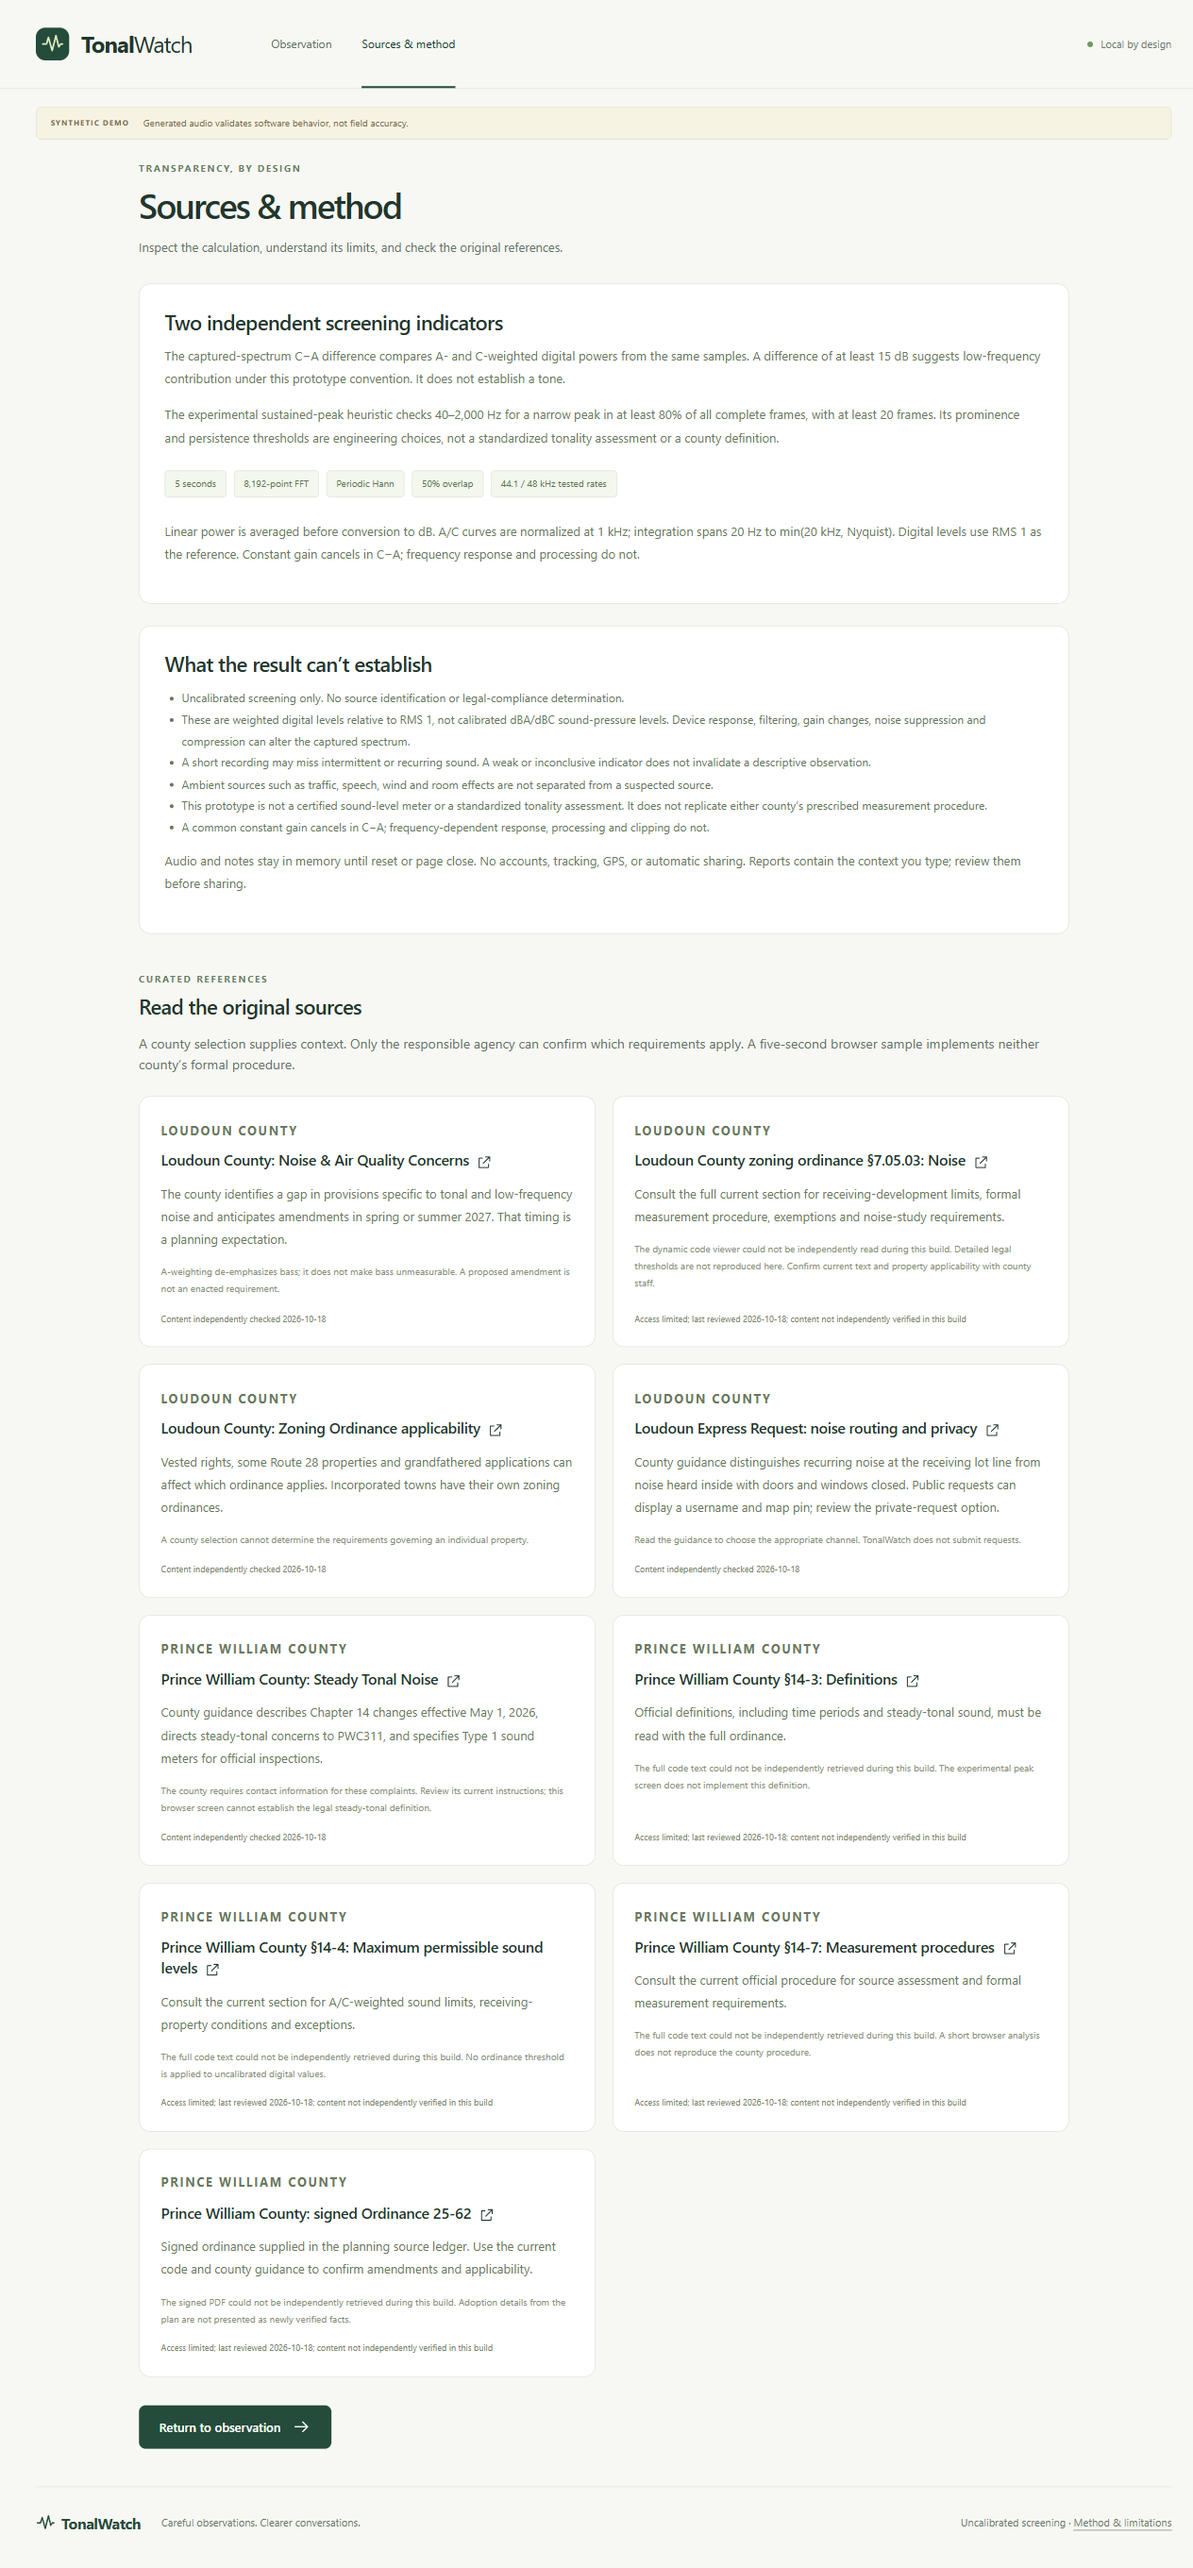
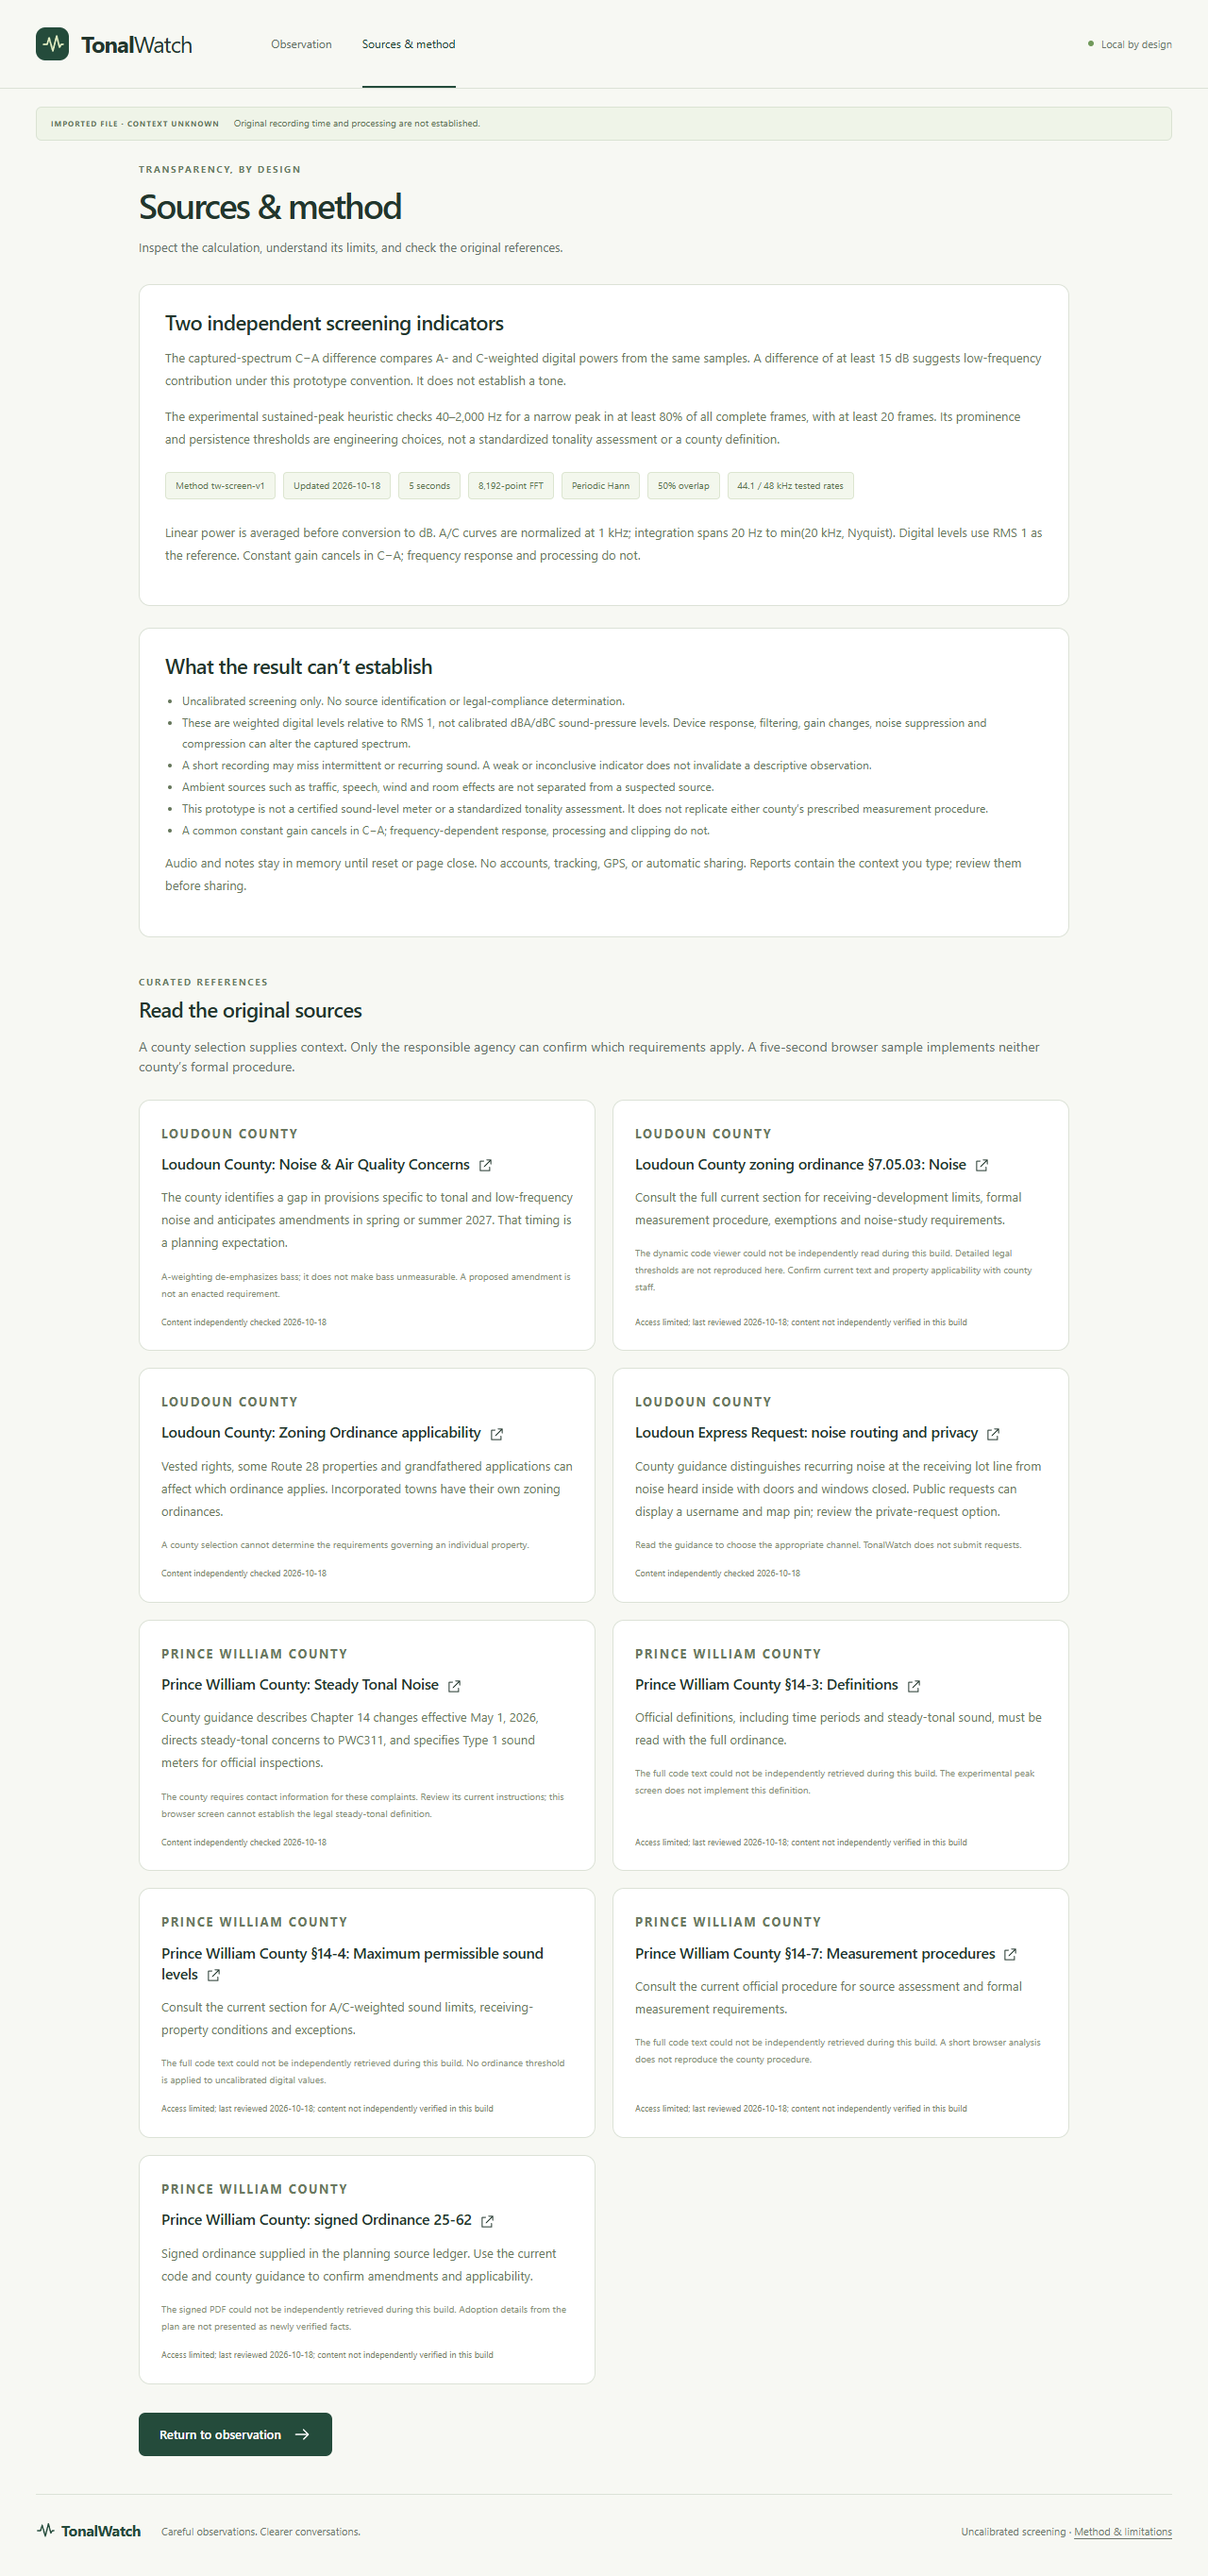
Document the public deployment and verified audio import workflow

diff --git a/docs/DEPLOYMENT.md b/docs/DEPLOYMENT.md
@@ -1,0 +1,41 @@
+# TonalWatch deployment verification
+
+Verified October 18, 2026, in Chrome 155 on Windows.
+
+- Public production URL: [tonalwatch.vercel.app](https://tonalwatch.vercel.app).
+- Deployed application source: commit `aca4b19` on `main`. Later documentation-only commits do not change the deployed application.
+- Immutable deployment: `dpl_Bnzna8LYCxCbvuNwtoYXHuWBjmmX`.
+- Project: `tonalwatch`, team `antigro09s-projects`.
+- Vercel CLI 64.5.0 reported **Ready**, production target, Node.js 24.x, Vite preset, `npm ci`, `npm run build`, output `dist`.
+- An unauthenticated request to the public production URL returned HTTP **200** and the app HTML. Browser checks used that URL without its protected preview-domain cookie. No deployment-protection setting was changed.
+
+The initial immutable/staging domain required Vercel authentication. The normal production deployment assigned `tonalwatch.vercel.app`, which is publicly accessible. Deployment protection can still apply to immutable or preview domains; use the production URL when sharing the app.
+
+## Public HTTPS workflow
+
+| Check | Observed result |
+| --- | --- |
+| Secure browser context | `window.isSecureContext` was true. App, analysis worker, capture worklet, and optional model worker loaded successfully. |
+| Microphone meter and capture | A Chrome virtual microphone fed a generated 63 Hz WAV through native getUserMedia and AudioWorklet. The meter showed −24.5 dB relative to RMS 1 during capture, then “Microphone inactive.” Final captured-spectrum C−A was 25.3 dB. This verifies browser integration, not a physical microphone. |
+| File import | Native decoding of a five-second, 48 kHz mono PCM WAV produced 25.3 dB, a 5.00-second duration, and imported-file provenance. A two-second file showed the explicit short-file error and disabled stale report review. |
+| Explicit local AI exploration | No external request occurred before Explore. The pinned CLAP model loaded in approximately 14.9 seconds and inferred in 1.3 seconds. The 63 Hz test file ranked transformer hum 0.410 and light-fixture buzz 0.378; the result stayed uncertain. Timings and rankings are single-session integration observations, not field accuracy or speed guarantees. |
+| AI network boundary | Observed model/runtime network requests were GET downloads with no request body. Model resolve paths used the pinned revision. Audio was not uploaded. |
+| Report and export | The report included the captured spectrum SVG and entered context, excluded AI rankings, and downloaded `tonalwatch-observation-2026-10-18.txt`. The downloaded text contained algorithm version, spectrum provenance, bin spacing, 57 frames, and numerical bins, including the 64.453125 Hz peak bin. |
+| Responsive layout | Home, Observation, Report, and Sources checked at 320, 390, 760, 1280, and 1920 CSS pixels: 20 route/width cases, no document-width overflow. |
+| Method metadata | Sources & Method displayed `tw-screen-v1` and update date `2026-10-18`. |
+| Browser diagnostics | No page errors, console errors, or warnings during the completed deployed workflow. |
+
+The separate local print check rendered and visually inspected all five report PDF pages, including the captured spectrum and repeated synthetic demonstration labels. Physical printing and field microphone/classification accuracy remain outside these checks; see [VALIDATION.md](VALIDATION.md).
+
+## Reproduction
+
+```sh
+npm ci
+npm test
+npm run build
+npx --yes vercel@64.5.0 deploy --prod --scope antigro09s-projects --yes --non-interactive
+```
+
+The project is linked locally through ignored `.vercel/` metadata. The app itself needs no backend, API key, account, or runtime environment variables. Authenticated Vercel deployment is separate from public app use. Never commit local Vercel credentials or `.env.local`.
+
+The deployment was created through the CLI. Automatic deployment from future GitHub pushes is not configured by this record.

diff --git a/README.md b/README.md
@@ -2,6 +2,8 @@
 
 TonalWatch helps a resident document a recurring hum: capture or load a short audio sample, inspect its frequency content, add observation notes, and export a source-linked observation packet.
 
+**Live app:** [tonalwatch.vercel.app](https://tonalwatch.vercel.app). Open **Observation → File → Choose File → Analyze file** to import a recording. PCM WAV is the supported baseline: at least five seconds, up to 10 MiB. Audio is analyzed locally and is never sent to a server.
+
 The app reports **uncalibrated weighted digital levels**, a captured-spectrum C−A difference, and a separate experimental sustained-peak indicator. It also offers an optional, local AI sound comparison that always remains uncertain. These features do not identify equipment, establish legal compliance, or replace a qualified acoustic measurement. A weak or inconclusive result still supports a descriptive observation.
 
 ## Run locally
@@ -66,6 +68,8 @@ Non-finite, unsupported-rate, incomplete, near-zero, clipped, and no-band-power 
 The current integrated suite passed **129 tests** covering the engine, capture/meter, report spectrum, and AI policy/lifecycle; the original baseline passed 74 tests before these additions. See [validation notes](docs/VALIDATION.md) for completed runs, browser evidence, and outstanding physical-device checks. Chrome checks include actual local model inference, a five-page PDF with the spectrum, and AudioWorklet capture with a virtual input. Software and synthetic-input checks do not validate a physical measurement chain or AI source accuracy.
 
 View the pages: [Home](docs/screenshots/home.png) · [Observation](docs/screenshots/observation.png) · [Report](docs/screenshots/report.png) · [Sources & method](docs/screenshots/sources.png).
+
+The public HTTPS deployment was checked in Chrome with native WAV decoding, AudioWorklet capture using a virtual input, optional local model inference, and report download. See [deployment verification](docs/DEPLOYMENT.md) and the [File input screenshot](docs/screenshots/file-input.png).
 
 ## Planning history and attribution
 

diff --git a/docs/VALIDATION.md b/docs/VALIDATION.md
@@ -25,7 +25,7 @@ The lockfile also pins the browser inference dependency `onnxruntime-web` to **1
 
 - **Baseline before optional features:** `npm test` passed 74 tests across four files; `npm run build` passed.
 - **Live meter focused run:** 23 tests passed across `tests/capture.test.ts` and `tests/meter.test.ts`; production build passed.
-- **Current integrated `npm test`: passed, 129 tests across seven files**, latest release check approximately 5.17 seconds. A separate run during concurrent development exceeded the deterministic-fixture equality test's original 5-second timeout; this full-array check now has a 30-second limit for slower laptops. The subsequent complete suite passed. No fixture values or feature assertions were weakened.
+- **Current integrated `npm test`: passed, 129 tests across seven files**, latest release check approximately 5.88 seconds after shared method-version metadata was added. A separate run during concurrent development exceeded the deterministic-fixture equality test's original 5-second timeout; this full-array check now has a 30-second limit for slower laptops. The subsequent complete suite passed. No fixture values or feature assertions were weakened.
 - **`npm run build`: passed after meter, printed-spectrum, and AI integration.** This runs TypeScript checking and the Vite production build.
 - **`npm ls --depth=0`: passed.** Direct dependencies were installed at the pinned versions above.
 
